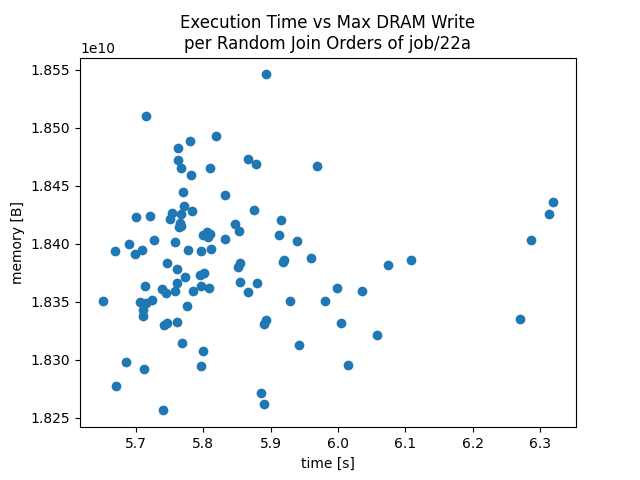
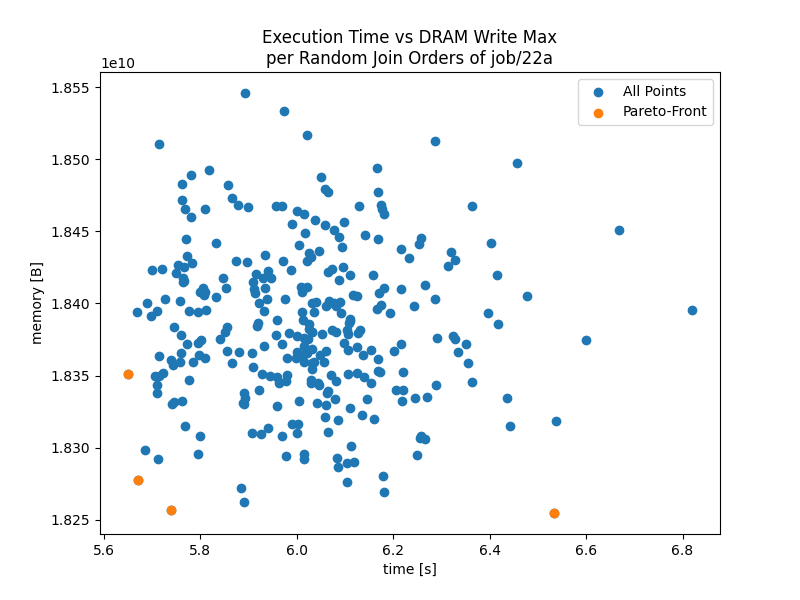
Add plotting of gpu mem vs time

diff --git a/python/join-benchmark/benchmark/util/plot_gpu_time_vs_mem.py b/python/join-benchmark/benchmark/util/plot_gpu_time_vs_mem.py
@@ -3,6 +3,9 @@ import matplotlib.pyplot as plt
 import sys
 import pandas as pd
 
+sys.path.append( 'benchmark' )
+from tools.pareto import find_pareto_front
+
 if __name__ == '__main__':
     query = sys.argv[1]
     
@@ -60,55 +63,23 @@ if __name__ == '__main__':
                 }
             }
         except:
+            del stats[perm]
             break
     
-    # Read Sum
-    plt.title(f'Execution Time vs Total DRAM Read\nper Random Join Orders of {query}')
-    plt.xlabel('time [s]')
-    plt.ylabel('memory [B]')
     
-    plt.scatter( \
-        x=[stats[perm]["time"]['mean'] for perm in stats], \
-        y=[stats[perm]["memory"]['read']['sum'] for perm in stats] \
-    )
-    
-    plt.savefig(f'results/figs/gpu/TvM/{query}/time-mean-vs-mem-read-sum.png')
-    
-    # Read Max
-    plt.figure()
-    plt.title(f'Execution Time vs Max DRAM Read\nper Random Join Orders of {query}')
-    plt.xlabel('time [s]')
-    plt.ylabel('memory [B]')
-    
-    plt.scatter( \
-        x=[stats[perm]["time"]['mean'] for perm in stats], \
-        y=[stats[perm]["memory"]['read']['max'] for perm in stats] \
-    )
-    
-    plt.savefig(f'results/figs/gpu/TvM/{query}/time-mean-vs-mem-read-max.png')
-    
-    # Write Sum
-    plt.figure()
-    plt.title(f'Execution Time vs Total DRAM Write\nper Random Join Orders of {query}')
-    plt.xlabel('time [s]')
-    plt.ylabel('memory [B]')
-    
-    plt.scatter( \
-        x=[stats[perm]["time"]['mean'] for perm in stats], \
-        y=[stats[perm]["memory"]['write']['sum'] for perm in stats] \
-    )
-    
-    plt.savefig(f'results/figs/gpu/TvM/{query}/time-mean-vs-mem-write-sum.png')
-    
-    # Write Max
-    plt.figure()
-    plt.title(f'Execution Time vs Max DRAM Write\nper Random Join Orders of {query}')
-    plt.xlabel('time [s]')
-    plt.ylabel('memory [B]')
-    
-    plt.scatter( \
-        x=[stats[perm]["time"]['mean'] for perm in stats], \
-        y=[stats[perm]["memory"]['write']['max'] for perm in stats] \
-    )
-    
-    plt.savefig(f'results/figs/gpu/TvM/{query}/time-mean-vs-mem-write-max.png')
+    for rw in ['read', 'write']:
+        for item in ['sum', 'max']:
+            plt.figure(figsize=(8,6))
+            plt.title(f'Execution Time vs DRAM {rw.capitalize()} {item.capitalize()}\nper Random Join Orders of {query}')
+            plt.xlabel('time [s]')
+            plt.ylabel('memory [B]')
+            
+            points = np.array([[stats[perm]["time"]['mean'], stats[perm]["memory"][rw][item]] for perm in stats])
+            front_mask = find_pareto_front(points, return_mask=True)
+            plt.scatter(x=points.T[0], y=points.T[1], label='All Points')
+            front_points = points[front_mask == True]
+            plt.scatter(x=front_points.T[0], y=front_points.T[1], label='Pareto-Front')
+            
+            plt.legend()
+            
+            plt.savefig(f'results/figs/gpu/TvM/{query}/time-mean-vs-mem-{rw}-{item}.png')

diff --git a/python/join-benchmark/benchmark/tools/pareto.py b/python/join-benchmark/benchmark/tools/pareto.py
@@ -1,0 +1,29 @@
+# FROM
+# https://stackoverflow.com/questions/32791911/fast-calculation-of-pareto-front-in-python
+import numpy as np
+
+
+def find_pareto_front(costs, return_mask = True):
+    """
+    Find the pareto-efficient points
+    :param costs: An (n_points, n_costs) array
+    :param return_mask: True to return a mask
+    :return: An array of indices of pareto-efficient points.
+        If return_mask is True, this will be an (n_points, ) boolean array
+        Otherwise it will be a (n_efficient_points, ) integer array of indices.
+    """
+    is_efficient = np.arange(costs.shape[0])
+    n_points = costs.shape[0]
+    next_point_index = 0  # Next index in the is_efficient array to search for
+    while next_point_index<len(costs):
+        nondominated_point_mask = np.any(costs<costs[next_point_index], axis=1)
+        nondominated_point_mask[next_point_index] = True
+        is_efficient = is_efficient[nondominated_point_mask]  # Remove dominated points
+        costs = costs[nondominated_point_mask]
+        next_point_index = np.sum(nondominated_point_mask[:next_point_index])+1
+    if return_mask:
+        is_efficient_mask = np.zeros(n_points, dtype = bool)
+        is_efficient_mask[is_efficient] = True
+        return is_efficient_mask
+    else:
+        return is_efficient
